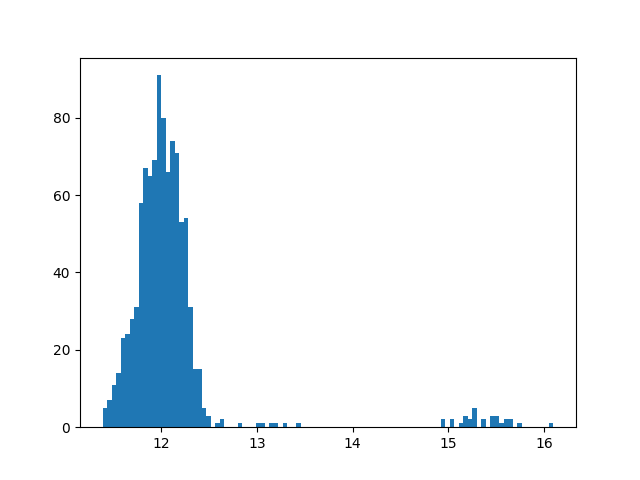
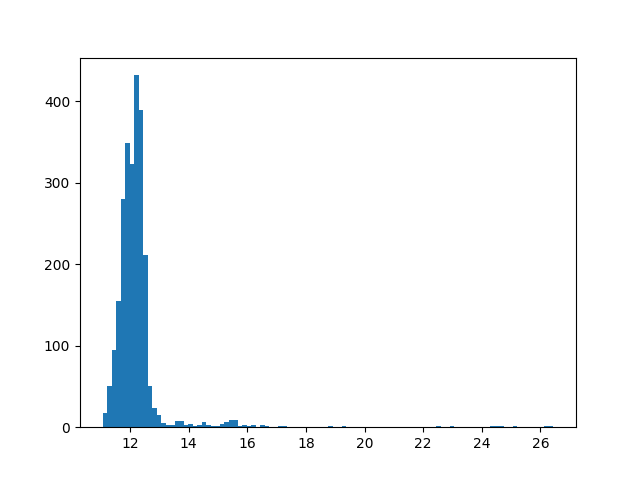
python is intersting

diff --git a/model/model.py b/model/model.py
@@ -190,7 +190,7 @@ def timing(img: MatLike):
     # Give 1 start for processing
     getBoxesForImg(img)
 
-    ITERATIONS = 1000
+    ITERATIONS = 2500
     times = []
     from tqdm import tqdm
     
@@ -208,6 +208,10 @@ def timing(img: MatLike):
     times = np.array(times) / 1e6
     plt.hist(times, bins=100)
     plt.savefig("histogram.png")
+    plt.figure("Time taken over time")
+    plt.plot(times)
+    plt.savefig("time_over_time.png")
+    
 
 
 def main():
